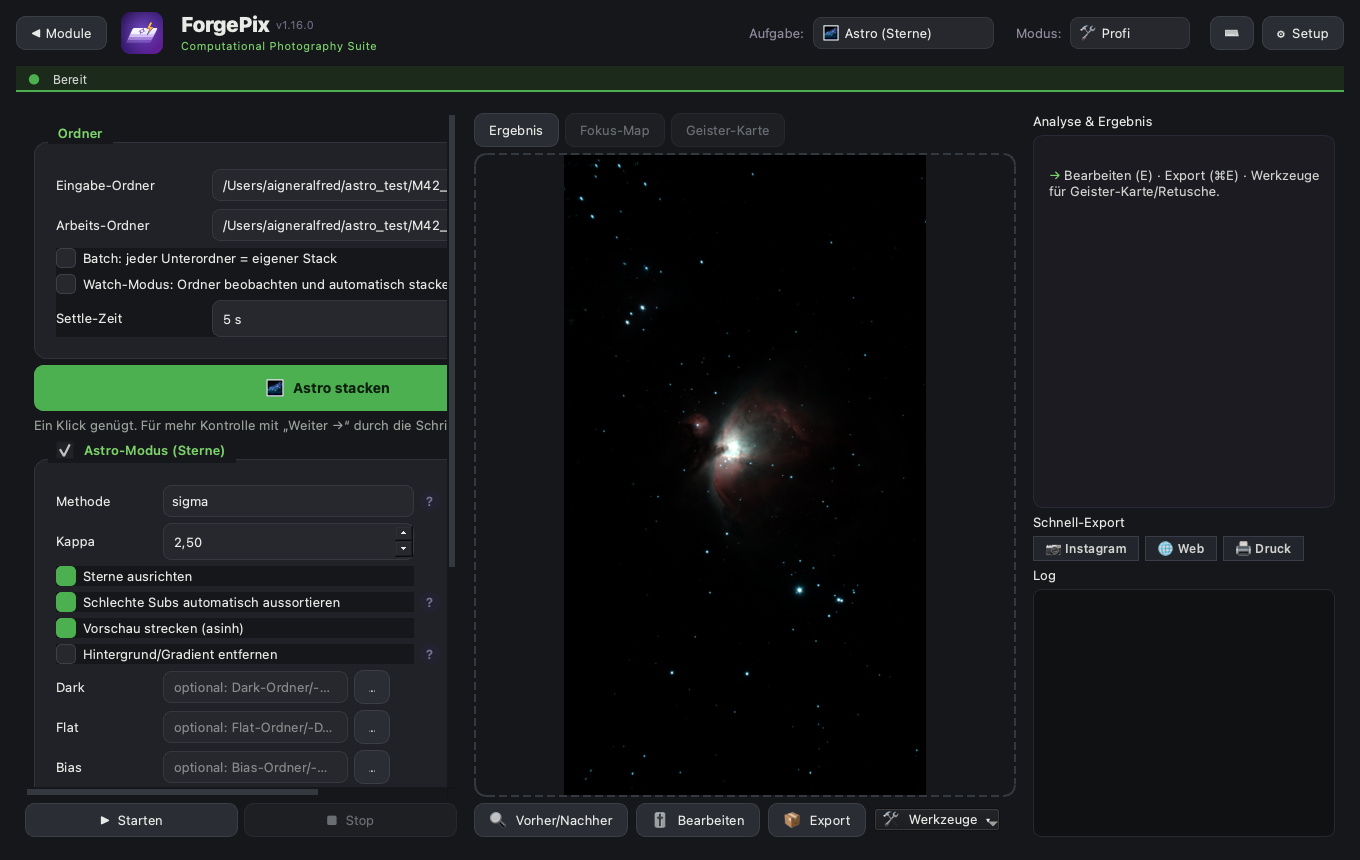
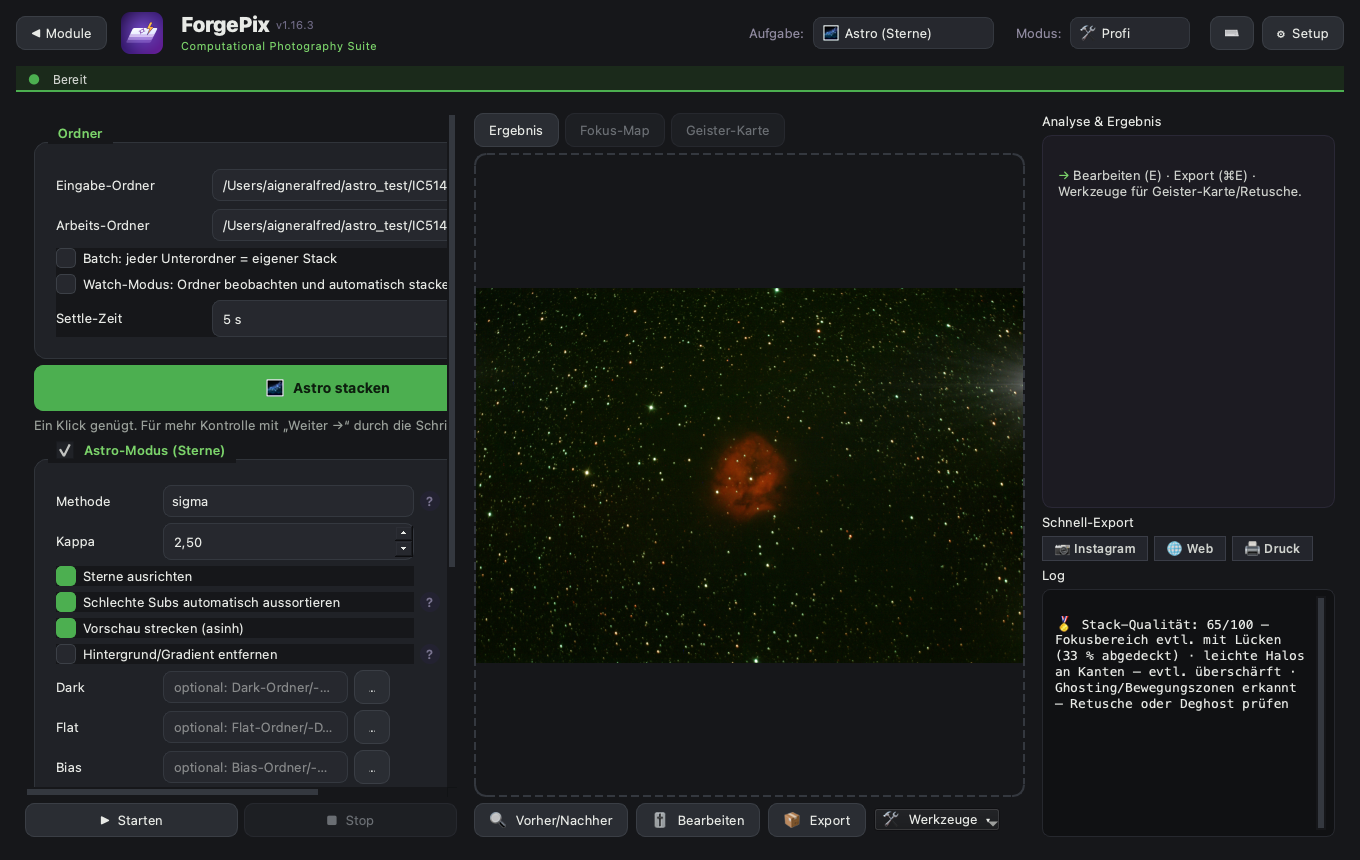
fix(astro): Standard rotate-Ausrichtung + Hot-Pixel an -> runde Sterne statt Streifen (v1.16.4)
Diagnose am echten IC5146/ASI294: shift-Default smearte Sterne bei Feldrotation (laenglich, farbig
getrennt, flaches Bild). Default jetzt rotate (+ Cosmetic an) -> runde Sterne, sauberer. Reiner
Korrektheits-Fix der Defaults, kein neues Feature. 03_astro.png = IC5146 Kokonnebel.

diff --git a/ui/main_window.py b/ui/main_window.py
@@ -341,7 +341,10 @@ class MainWindow(WelcomeMixin, SettingsMixin, ExportMixin, ResultMixin, QMainWin
         self.astro_align = QComboBox()
         self.astro_align.addItem(tr("Translation (Nachführung)"), "shift")
         self.astro_align.addItem(tr("Translation + Feldrotation (Alt-Az)"), "rotate")
+        self.astro_align.setCurrentIndex(1)   # Standard: rotate — korrigiert auch Feldrotation
+        # (verschmierte/längliche Sterne); funktioniert auch bei reiner Nachführung. Sicherer Default.
         self.astro_cosmetic = QCheckBox(tr("Hot-/Cold-Pixel entfernen"))
+        self.astro_cosmetic.setChecked(True)  # Standard an: entfernt farbige Hot-Pixel-Punkte
         self.astro_drizzle = QComboBox()
         self.astro_drizzle.addItem(tr("Aus"), 1)
         self.astro_drizzle.addItem(tr("2× (feineres Sampling)"), 2)

diff --git a/constants.py b/constants.py
@@ -4,7 +4,7 @@ constants.py — gemeinsame Konstanten für ForgePix (eine zentrale Definition,
 damit Module nicht auseinanderlaufen).
 """
 
-VERSION = "1.16.3"
+VERSION = "1.16.4"
 
 # Kamera-RAW-Formate, die rawpy entwickeln kann
 RAW_EXTS = {".arw", ".cr2", ".cr3", ".nef", ".raf", ".rw2", ".dng", ".orf", ".pef", ".srw"}

diff --git a/CHANGELOG.md b/CHANGELOG.md
@@ -4,6 +4,16 @@ Alle nennenswerten Änderungen an ForgePix. Format orientiert an
 [Keep a Changelog](https://keepachangelog.com/de/), Versionierung nach
 [SemVer](https://semver.org/lang/de/).
 
+## [1.16.4] – 2026-06-26
+### Behoben (Astro-Qualität — beim Verifikations-Lauf gefunden)
+- **Standard-Ausrichtung war `shift` (nur Translation):** Bei realen Datensätzen mit Feldrotation
+  führte das zu **länglichen, farbig getrennten Sternen** und einem flachen Bild (am IC 5146 / ASI294
+  nachgewiesen). Standard ist jetzt **`rotate` (Translation + Feldrotation)** — korrigiert auch
+  gedrehte Felder, funktioniert ebenso bei reiner Nachführung. Sterne werden rund.
+- **Hot-/Cold-Pixel-Korrektur standardmäßig an:** entfernt die farbigen Einzelpixel-Punkte
+  (Bayer-/Sensor-Hotpixel), die vorher als Farbsprenkel sichtbar waren.
+- Astro-Screenshot = realer IC 5146 (Kokonnebel) mit runden Sternen.
+
 ## [1.16.3] – 2026-06-26
 ### Behoben (CI)
 - **tests.yml:** `psdtags` fehlte unter den CI-Abhängigkeiten → der neue Ebenen-TIFF-Regressionstest